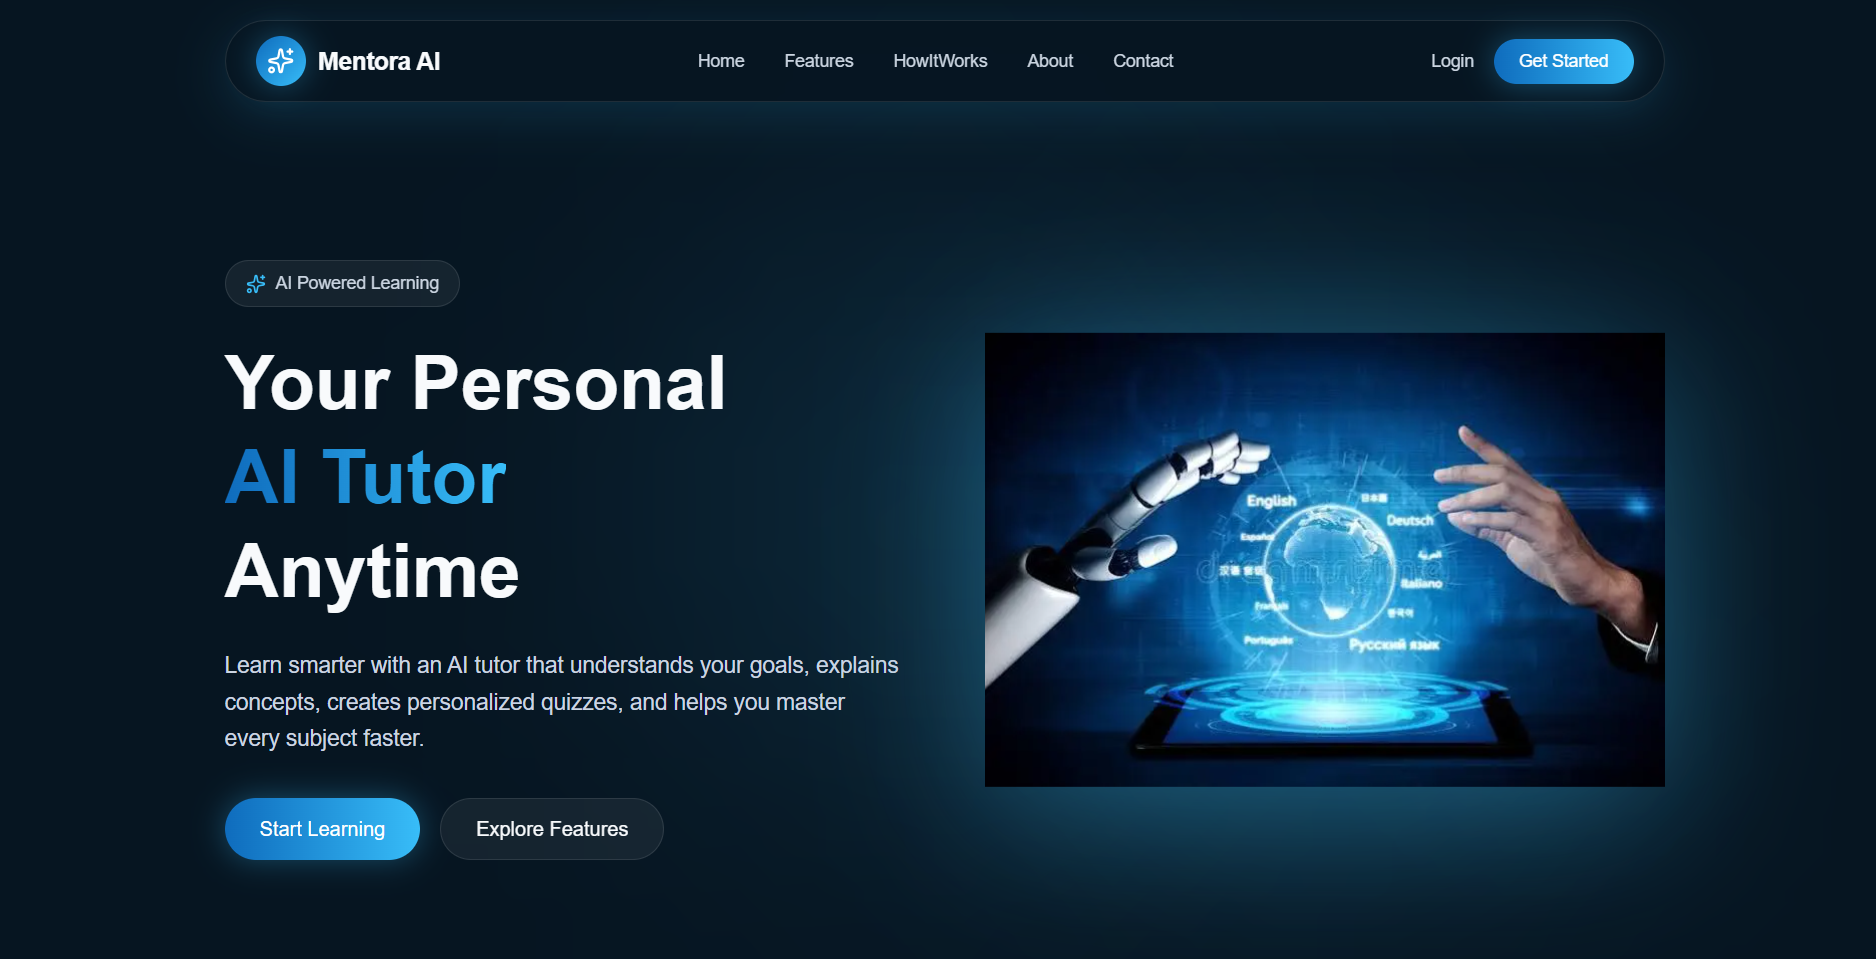
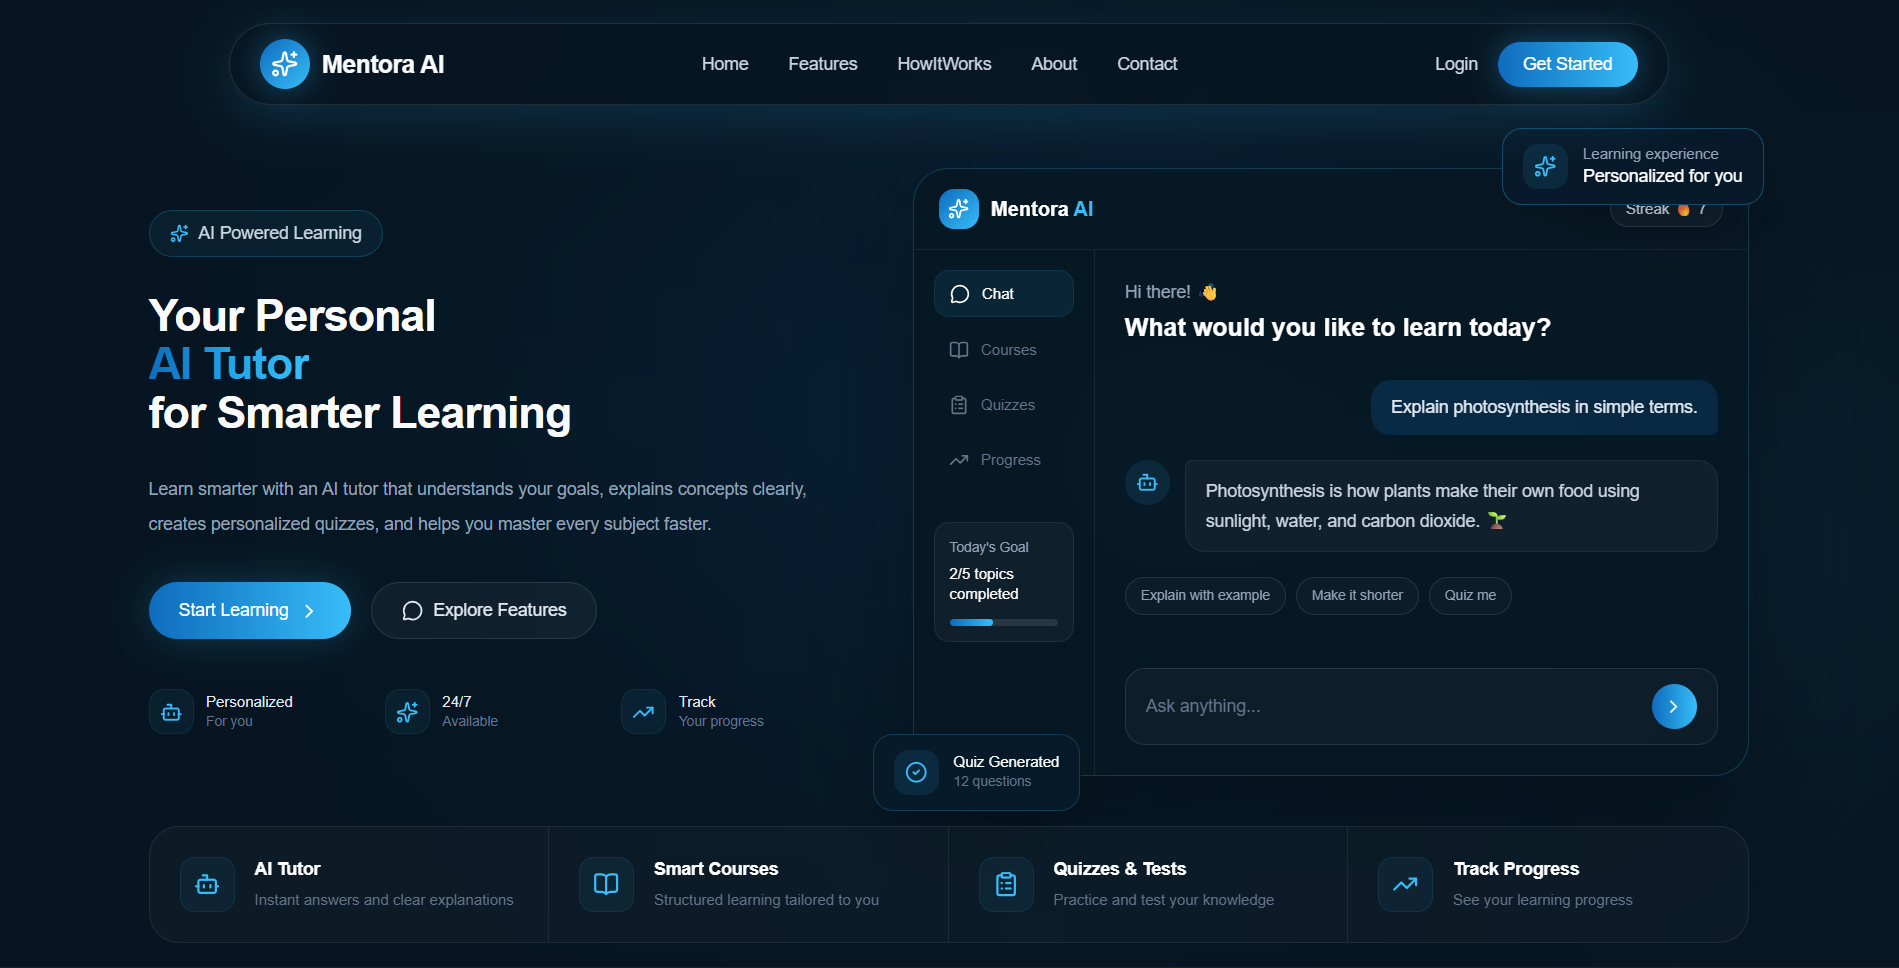
Added Project Images

diff --git a/src/Components/Project.jsx b/src/Components/Project.jsx
@@ -17,27 +17,26 @@ function Project() {
         <div className="flex gap-6 flex-wrap">
           {/* Project Items */}
           <div className=" flex flex-col w-96 mt-10 p-4 border border-[#2E424D] rounded-lg shadow-lg hover:shadow-xl transition mb-6">
-            <img src="image.png" alt="" />
+            <img src="mentora.png" alt="" />
             <h1 className="mb-4 mt-4 text-2xl font-serif font-semibold">
-  Mentora AI – AI Powered Learning Platform
-</h1>
+              Mentora AI – AI Powered Learning Platform
+            </h1>
 
-<p className="text-gray-300">
-  Mentora AI is a full-stack AI-powered learning platform designed to
-  provide students with a personalized learning experience. Students can
-  explore courses, enroll in learning content, interact with an AI tutor,
-  take quizzes, track their progress, and manage their profiles. The
-  platform features secure authentication, personalized AI assistance,
-  course and lesson management, quiz functionality, progress tracking,
-  conversation history, and a fully responsive user interface built for
-  modern online learning.
-</p>
+            <p className="text-gray-300">
+              Mentora AI is a full-stack AI-powered learning platform designed
+              to provide students with a personalized learning experience.
+              Students can explore courses, enroll in learning content, interact
+              with an AI tutor, take quizzes, track their progress, and manage
+              their profiles. The platform features secure authentication,
+              personalized AI assistance, course and lesson management, quiz
+              functionality, progress tracking, conversation history, and a
+              fully responsive user interface built for modern online learning.
+            </p>
             <div className="flex gap-4 mt-4 w-96 flex-wrap">
-            
               <p className="text-[#98DAD9] font-semibold rounded-md p-1 px-2 bg-[#405460]">
                 Nextjs
               </p>
-               <p className="text-[#98DAD9] font-semibold rounded-md p-1 px-2 bg-[#405460]">
+              <p className="text-[#98DAD9] font-semibold rounded-md p-1 px-2 bg-[#405460]">
                 Tailwind Css
               </p>
               <p className="text-[#98DAD9] font-semibold rounded-md p-1 px-2 bg-[#405460]">
@@ -59,7 +58,7 @@ function Project() {
                 JWT Authentication
               </p>
               <p className="text-[#98DAD9] font-semibold rounded-md p-1 px-2 bg-[#405460]">
-               Gen AI
+                Gen AI
               </p>
               <p className="text-[#98DAD9] font-semibold rounded-md p-1 px-2 bg-[#405460]">
                 Langchain{" "}
@@ -82,7 +81,6 @@ function Project() {
               </a>
             </div>
           </div>
-
 
           <div className=" flex flex-col w-96 mt-10 p-4 border border-[#2E424D] rounded-lg shadow-lg hover:shadow-xl transition mb-6">
             <img src="Nexora.png" alt="" />
@@ -146,9 +144,8 @@ function Project() {
             </div>
           </div>
 
-
           <div className=" flex flex-col w-96 mt-10 p-4 border border-[#2E424D] rounded-lg shadow-lg hover:shadow-xl transition mb-6">
-            <img src="AgroMart.png" alt="" />
+            <img src="agromartt.png" alt="" />
             <h1 className="mb-4 mt-4 text-2xl font-serif font-semibold">
               Farmer Marketplace
             </h1>
